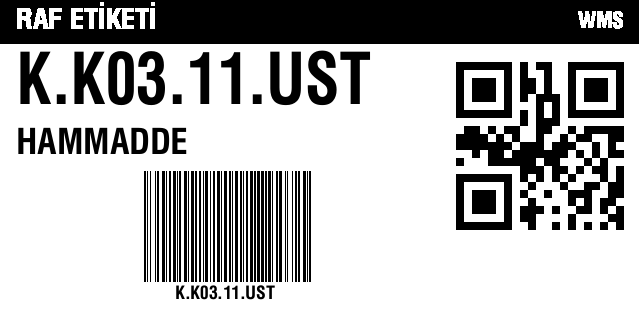
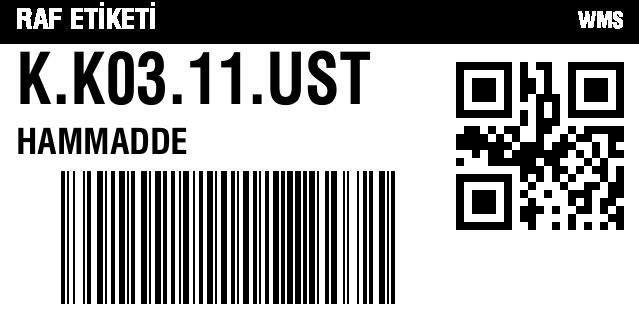
EMU 1.14.128 / BC 1.14.2.9: thicker bars without the repeated code, and a zone-only label
DKÇ: the bin code was printed twice (large at the top, small under the bars)
and the bars were too thin; and the area itself needs a QR without picking a
bin. Code128 now drops the human-readable line, grows to 85% of the column
with a 2-dot minimum module, and the zones API prints its own label.

Changed region(s): [[0.0892, 0.5377, 0.6244, 0.9623]]

diff --git a/android/app/src/main/java/com/dynops/bcwms/feature/InquiryModules.kt b/android/app/src/main/java/com/dynops/bcwms/feature/InquiryModules.kt
@@ -394,6 +394,43 @@ fun BinInquiryModule(labelsOnly: Boolean = false) {
             else "TAMAM: '$z' alanında ${zoneBins.size} raf. Etiketleri topluca alabilirsiniz."
     }
 
+    /** DKÇ (17 Eyl 2026): sadece alanın kendi QR etiketi, raf girmeden. */
+    fun printZoneOwnLabel() {
+        if (printing) return
+        val loc = location.trim(); val z = zone.trim()
+        if (loc.isBlank() || z.isBlank()) return
+        val total = parseLabelCopies(labelCopies) ?: run {
+            status = "HATA: Etiket adedi 1 ile $LABEL_COPIES_MAX arasında olmalı."
+            return
+        }
+        scope.launch {
+            printing = true
+            try {
+                status = "🖨 $z alan etiketi yazdırılıyor..."
+                val choice = resolveInquiryPrinter(context).getOrElse {
+                    status = "HATA: ${it.message}"
+                    return@launch
+                }
+                val key = "locationCode='${loc.replace("'", "''")}',code='${z.replace("'", "''")}'"
+                for (copies in labelCopyBatches(total)) {
+                    val payload = JSONObject().apply {
+                        put("printerId", choice.printerCode)
+                        put("copies", copies)
+                    }.toString()
+                    val r = BcApi.boundAction(context, "zones", key, "printLabel", payload)
+                    if (!r.ok) {
+                        status = "🔴 Alan etiketi: ${BcApi.errorMessage(r.body)} (HTTP ${r.httpCode})" +
+                            if (r.httpCode == 404) " · BC 1.14.2.9 gerekir." else ""
+                        return@launch
+                    }
+                }
+                status = "🟢 $z alan etiketi × $total ${choice.printerCode.ifBlank { "BC varsayılanı" }} kuyruğuna alındı."
+            } finally {
+                printing = false
+            }
+        }
+    }
+
     fun printZoneLabels() {
         if (printing || zoneBins.isEmpty()) return
         val total = parseLabelCopies(labelCopies) ?: run {
@@ -574,6 +611,12 @@ fun BinInquiryModule(labelsOnly: Boolean = false) {
                     )
                     Spacer(Modifier.height(8.dp))
                     LabelCopiesField(labelCopies, { labelCopies = it }, enabled = !printing)
+                    Spacer(Modifier.height(8.dp))
+                    OutlinedButton(
+                        onClick = { printZoneOwnLabel() },
+                        enabled = !printing && parseLabelCopies(labelCopies) != null,
+                        modifier = Modifier.fillMaxWidth().height(48.dp),
+                    ) { Text("Sadece alan etiketi ($zone)") }
                     Spacer(Modifier.height(8.dp))
                     Row(Modifier.fillMaxWidth(), horizontalArrangement = Arrangement.spacedBy(8.dp)) {
                         OutlinedButton(
